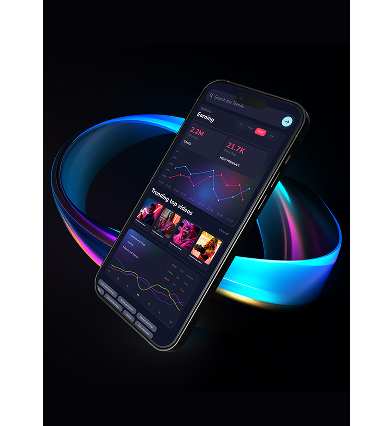
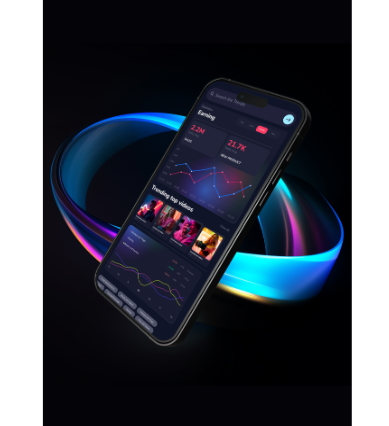
feat: img switched to png for lower size

Changed region(s): [[0.1234, 0.0, 0.9254, 1.0], [0.6787, 0.2136, 0.8021, 0.3357]]

diff --git a/src/app/home/page.tsx b/src/app/home/page.tsx
@@ -14,7 +14,7 @@ export default function Home() {
       <HeroSection />
       <div className='sm:hidden absolute top-[76px] left-1/2 -translate-x-1/2 z-0'>
         <Image
-          src='/assets/mobile-mockup-xs.svg'
+          src='/assets/mobile-mockup-xs.png'
           alt='Fametonic Mobile App'
           width={390}
           height={426}
@@ -35,7 +35,7 @@ export default function Home() {
       </div>
       <div className='hidden sm:block absolute top-[156px] left-1/2 -translate-x-1/2 lg:left-auto lg:translate-x-0 lg:top-[126px] lg:right-[20px] xl:right-[60px] 2xl:right-[101px]'>
         <Image
-          src='/assets/mobile-mockup.svg'
+          src='/assets/mobile-mockup.png'
           alt='Fametonic Mobile App'
           width={666}
           height={679}
